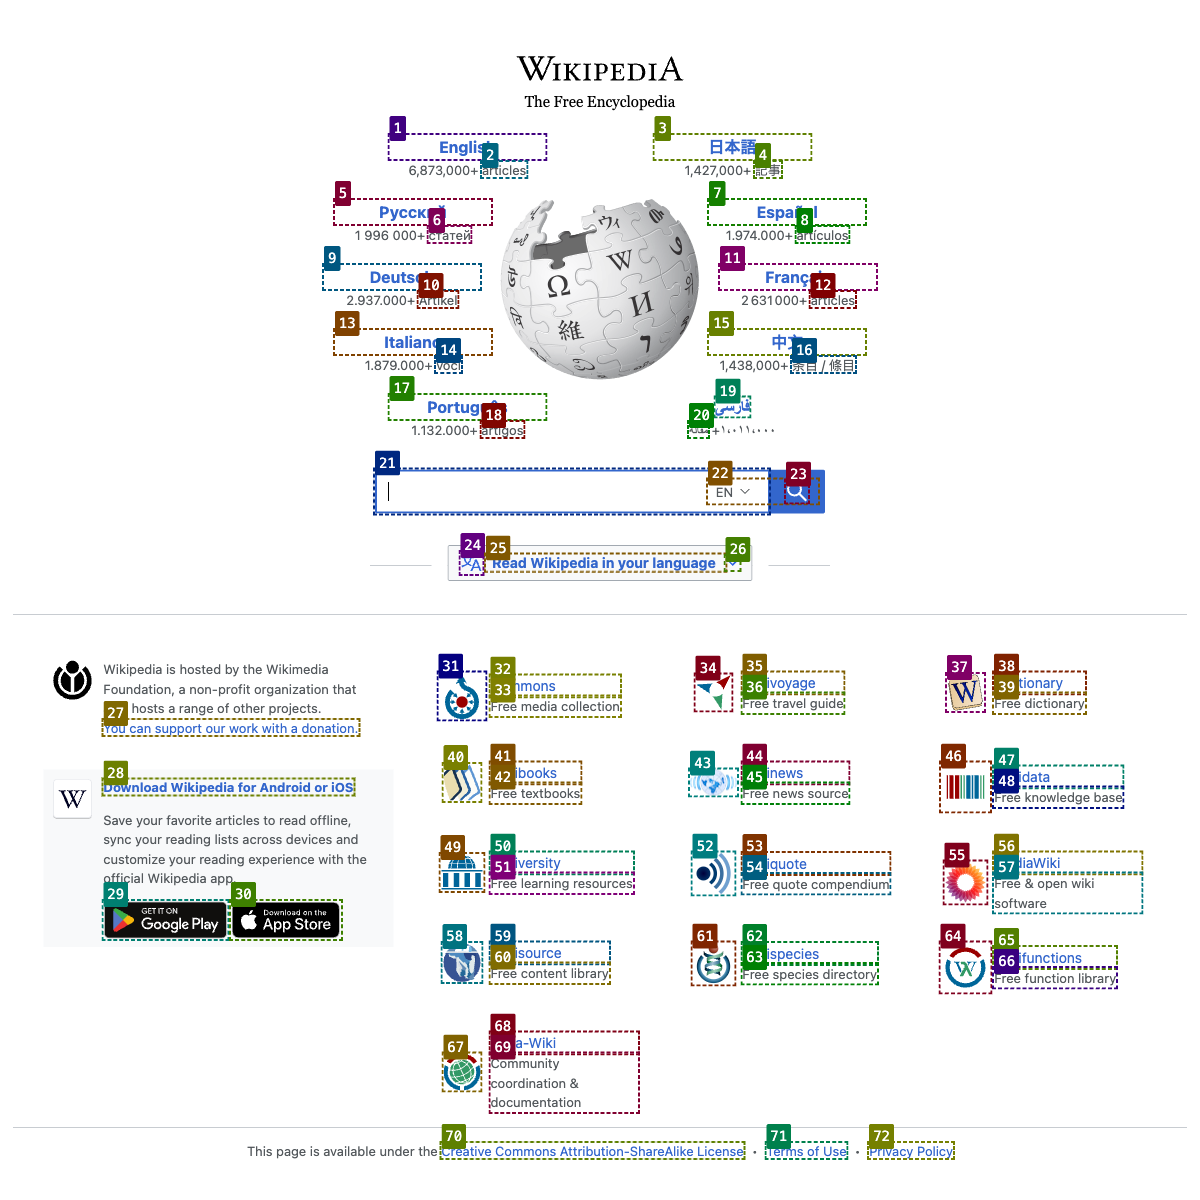
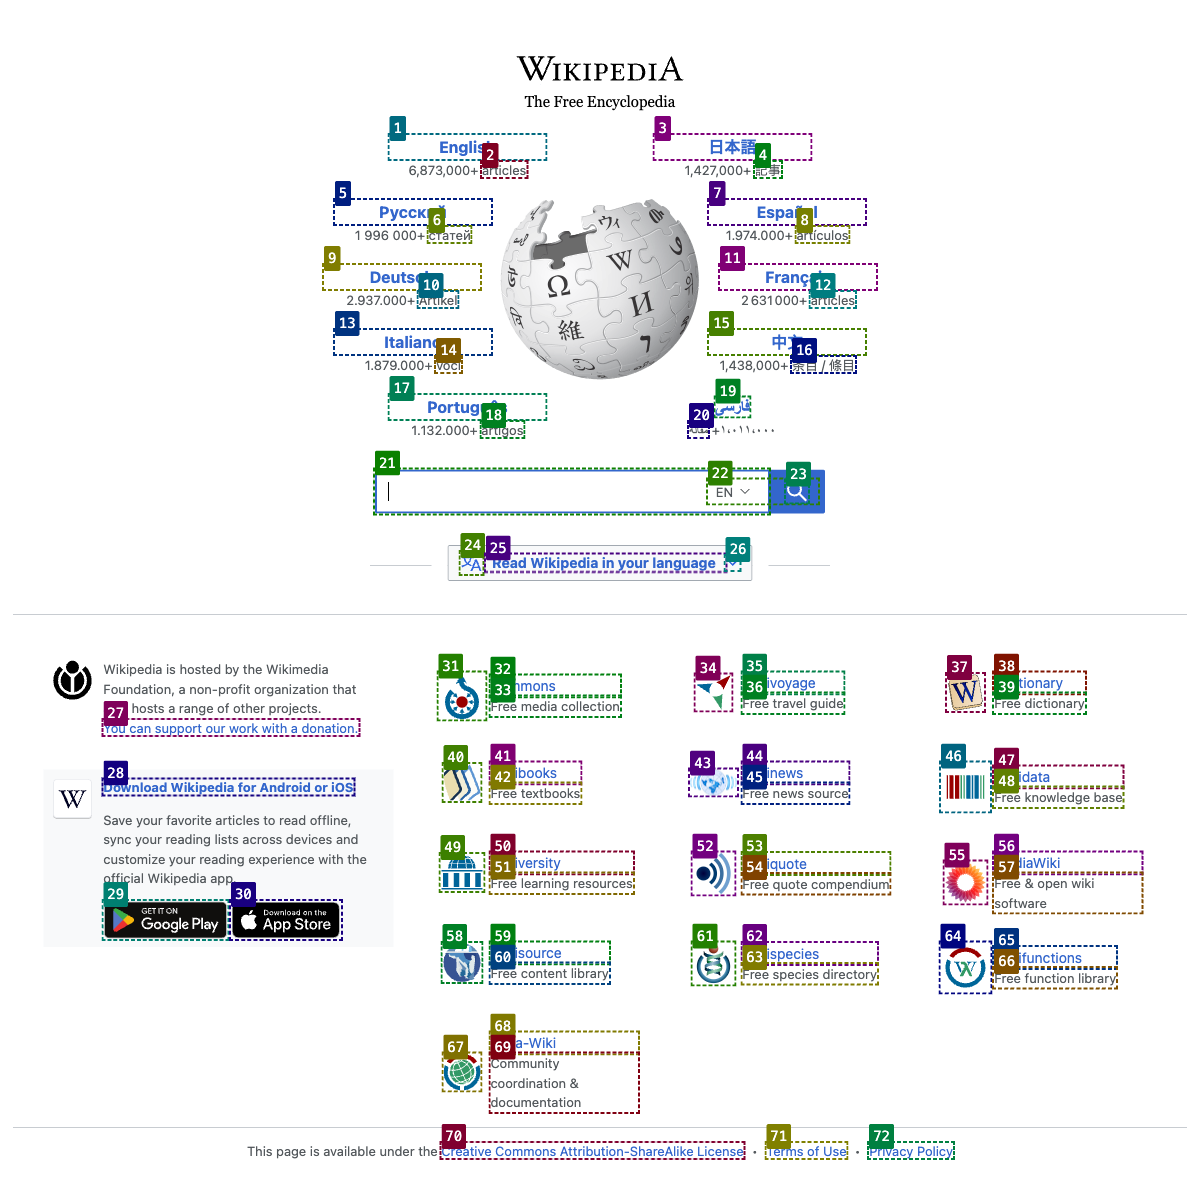
feat: pushing

diff --git a/src/llm/agent/action.ts b/src/llm/agent/action.ts
@@ -18,8 +18,8 @@ interface Data {
 
 async function simulateHumanClick(page: Page, x: number, y: number): Promise<void> {
   await page.mouse.move(x, y);
-//   await page.mouse.down();
-//   await page.mouse.up();
+  await page.mouse.down();
+  await page.mouse.up();
 }
 
 export async function simulateHumanTyping(page: Page, text: string): Promise<void> {
@@ -33,17 +33,18 @@ async function findLabel(labelData: LabelData[], elementId: string): Promise<Lab
   return data[0]
 }
 
-export async function performAction(page: Page, data: Data | null, labelData: LabelData): Promise<void> {
+export async function performAction(page: Page, data: Data | null, labelData: any): Promise<void> {
   if (!data) return;
 
   const  nextAction  = { action: 'type', element: "21", text: 'Hello world' };
-  const label = labelData
+  const label = labelData[0]
   console.log(label)    
   if (!label) {
     console.error(`Label not found for element: ${nextAction.element}`);
     return;
   }
   console.log(nextAction)
+  console.log(validateCoordinates(label.x, label.y))
   switch (nextAction.action) {
     case 'click':
       console.log(`Clicking ${JSON.stringify(label)}`);
@@ -63,4 +64,10 @@ export async function performAction(page: Page, data: Data | null, labelData: La
     default:
       console.error(`Unknown action: ${nextAction.action}`);
   }
+}
+
+
+function validateCoordinates(x: number, y: number): boolean {
+  console.log(x, y)
+  return Number.isFinite(x) && Number.isFinite(y) && x >= 0 && y >= 0;
 }

diff --git a/src/index.ts b/src/index.ts
@@ -128,10 +128,12 @@ async function highlightAndLabelElements(page: Page): Promise<LabelData[]> {
       });
 
       return itemsWithIds.map(item => ({
-        x: (item.rects[0].left + item.rects[0].right) / 2, 
-        y: (item.rects[0].top + item.rects[0].bottom) / 2,
-        bboxs: item.rects.map(({left, top, width, height}) => [left, top, width, height] as [number, number, number, number]),
-        id: item.id!
+        id: item.id!,
+        x: Math.round((item.rects[0].left + item.rects[0].right) / 2),
+        y: Math.round((item.rects[0].top + item.rects[0].bottom) / 2),
+        bboxs: item.rects.map(({left, top, width, height}) => 
+          [Math.round(left), Math.round(top), Math.round(width), Math.round(height)] as [number, number, number, number]
+        ),
       }));
     }
 
@@ -165,11 +167,12 @@ import { performAction } from './llm/agent/action';
   
   await page.goto('https://www.wikipedia.org');
   const labelData = await highlightAndLabelElements(page);
-  const data = labelData.filter(x => x.id === 1);
+  const data = labelData.filter(x => x.id === 21);
   console.log( "DATA", data)
+  await page.screenshot({ path: 'highlighted-page.png' });
   //@ts-ignore
   performAction(page,  { action: 'click', element: "1",  }, data);
   
-  await page.screenshot({ path: 'highlighted-page.png' });
+
 
 })();
